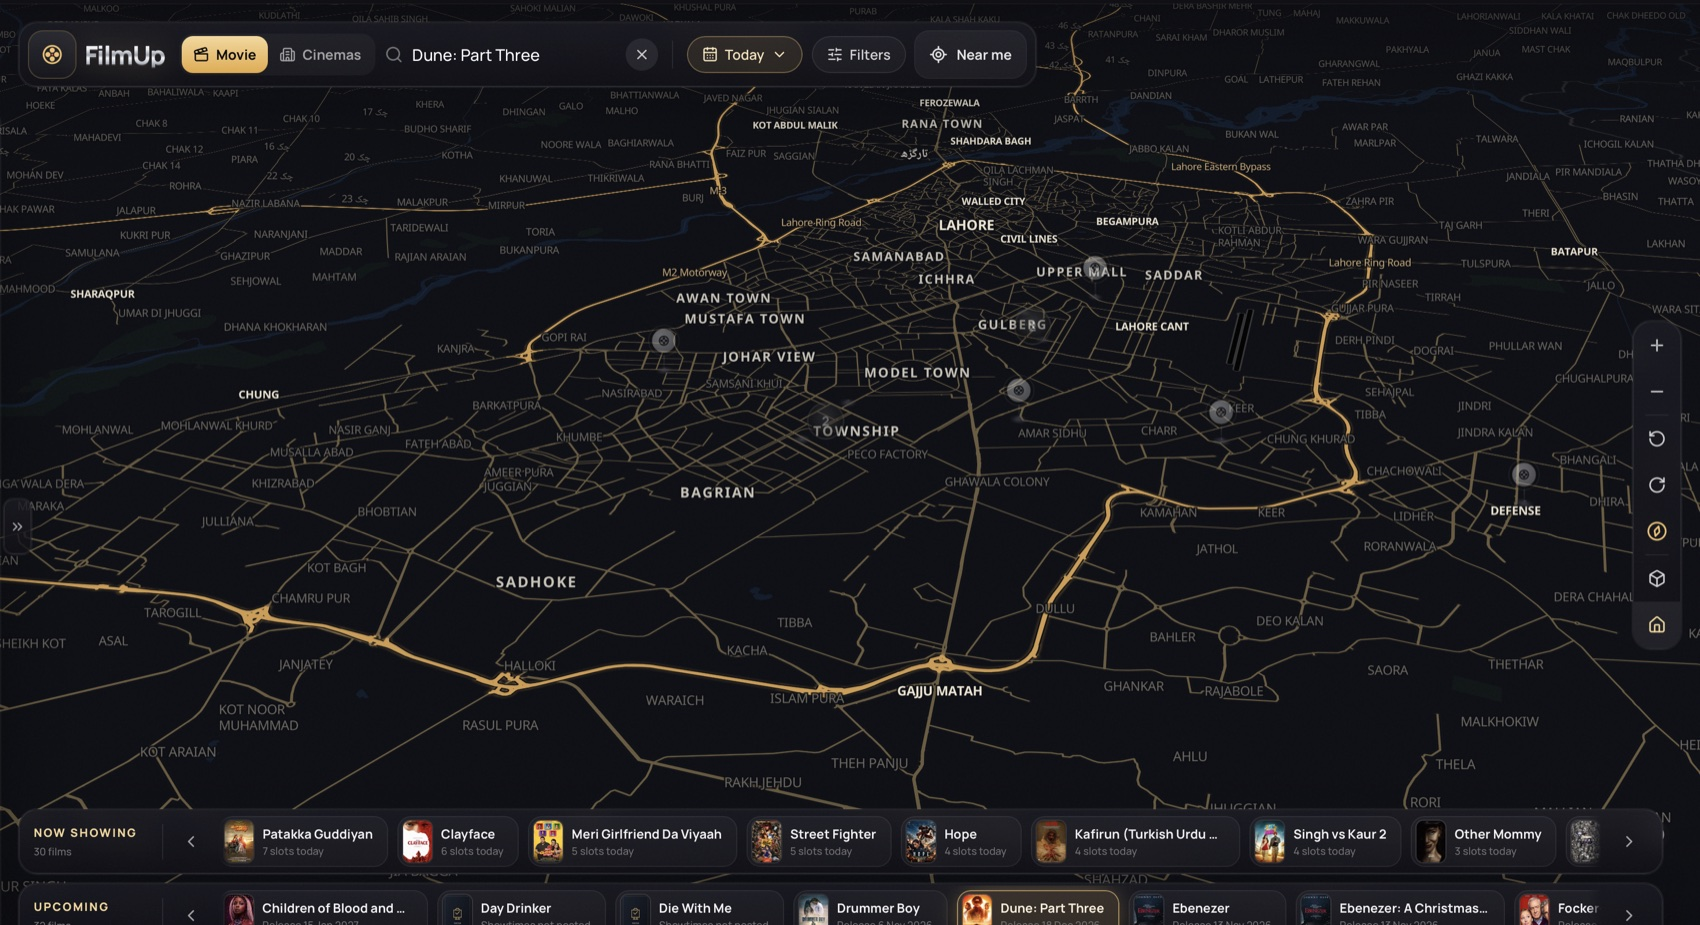
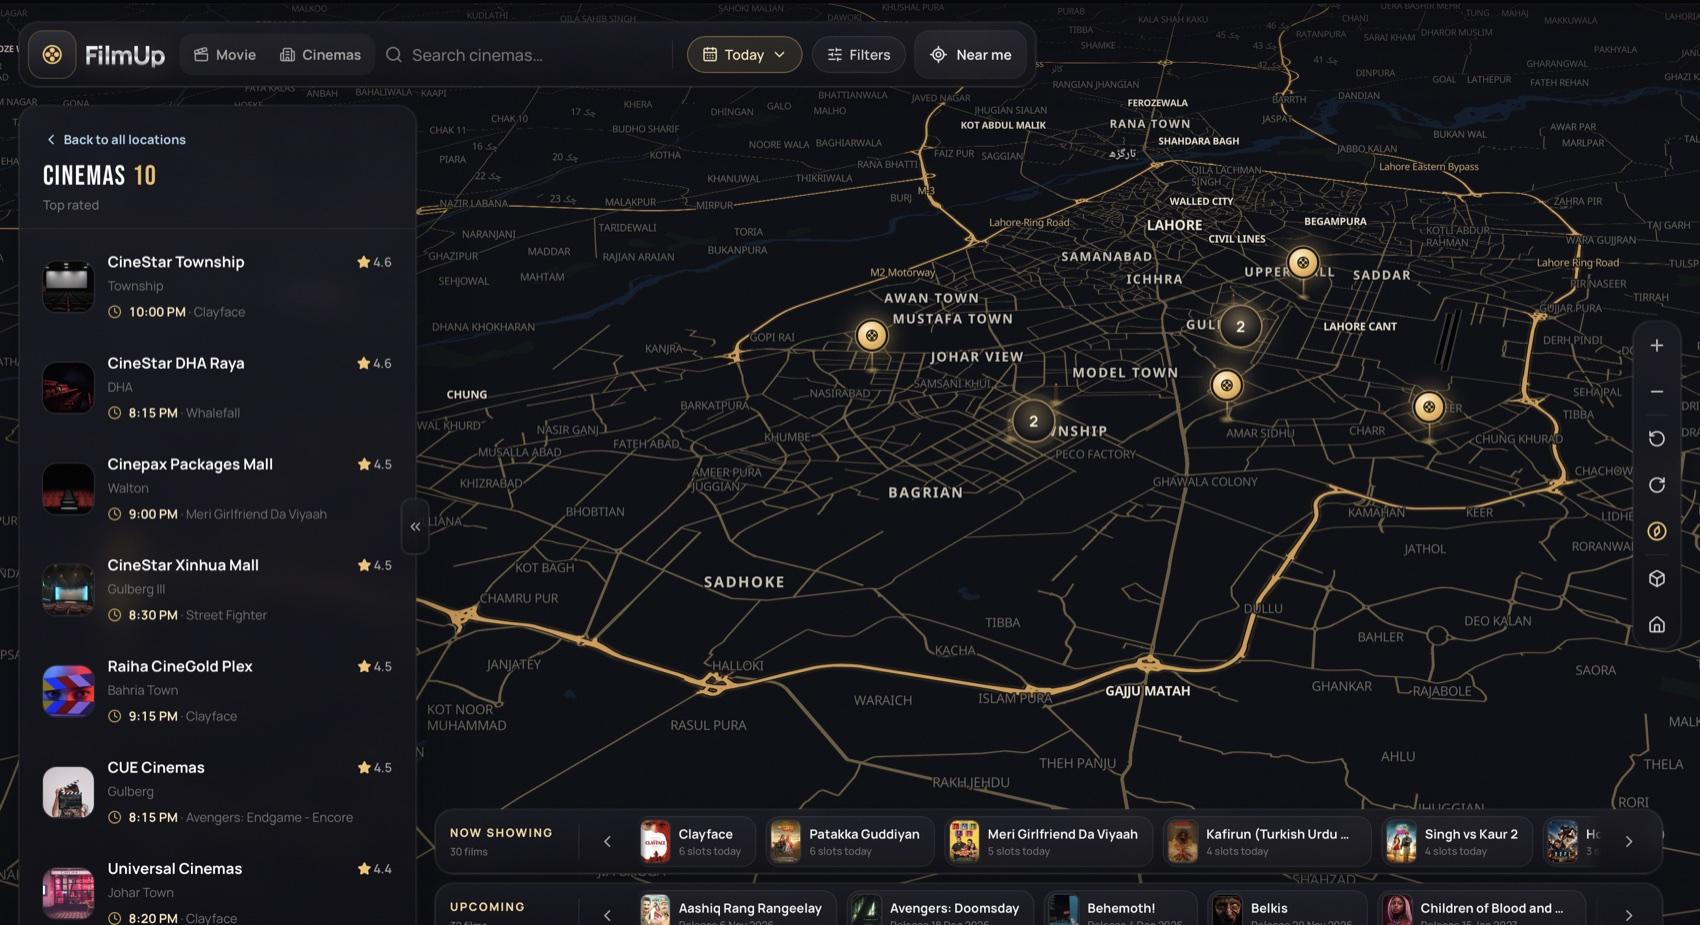
Clarify FilmUp objective and refine README product gallery

diff --git a/README.md b/README.md
@@ -4,15 +4,23 @@
 
 [![CI](https://github.com/damnalee/filmup/actions/workflows/ci.yml/badge.svg?branch=main)](https://github.com/damnalee/filmup/actions/workflows/ci.yml)
 
-FilmUp is a Lahore-focused cinema discovery experience. It brings cinema locations, movie listings and upcoming showtimes into one interactive map, with email alerts for advance-booking openings on selected upcoming films.
+FilmUp is a Lahore-focused cinema discovery experience. It brings supported cinema locations, movie listings and available showtimes into one searchable map and directory, with email alerts for advance-booking openings on selected upcoming films.
 
 <p align="center">
-  <img src="docs/screenshots/filmup-map.jpg" alt="FilmUp interactive 3D map of Lahore with cinema locations and movie ribbons" width="100%" />
+  <img src="docs/screenshots/filmup-map.jpg" alt="FilmUp Lahore map showing cinema markers, a live list of supported cinemas and movie showtime ribbons" width="100%" />
 </p>
 
 <p align="center">
   <strong>React · TypeScript · Vite · FastAPI · Supabase · MapLibre</strong>
 </p>
+
+## The problem FilmUp solves
+
+Finding a movie time in Lahore can mean opening several cinema websites one by one, checking different booking apps, and comparing listings across separate pages. Those booking apps do not provide one dependable, concurrent view of the available slots across all the cinemas a moviegoer may want to compare. That makes a simple question — *which cinema has the best showtime for this movie?* — unnecessarily time-consuming.
+
+**FilmUp's main objective is to bring the supported Lahore cinemas and their available movie sessions together in one place.** Instead of switching between separate websites and apps, people can explore cinema locations on a shared map, browse one consolidated cinema and movie list, and compare the showtimes that FilmUp has collected from supported sources. Upcoming titles can also be followed with advance-booking email alerts.
+
+FilmUp is a discovery layer, not a ticket-booking marketplace: when a cinema publishes a booking link, users continue to that cinema or provider to complete the purchase. Coverage depends on the cinemas and sources currently supported by FilmUp; it does not claim to list every venue or every slot in Lahore.
 
 ## What FilmUp does
 
@@ -26,32 +34,37 @@ FilmUp is a discovery and notification product. It does not sell tickets or guar
 
 ## Product screens
 
-The screenshots below are captures of the real FilmUp interface running locally. They show the current product flow rather than mockups.
+These are captures of the actual FilmUp interface running locally, not design mockups.
 
-<table>
-  <tr>
-    <td width="50%" valign="top">
-      <img src="docs/screenshots/filmup-cinemas-list.jpg" alt="FilmUp cinema directory showing Lahore venues and their next listed showtimes" width="100%" />
-      <p><strong>Cinema directory</strong><br />Browse supported Lahore cinemas, compare their areas and ratings, and see the next listed session.</p>
-    </td>
-    <td width="50%" valign="top">
-      <img src="docs/screenshots/filmup-cue-showtimes.jpg" alt="CUE Cinemas detail panel with currently listed movies and showtimes" width="100%" />
-      <p><strong>CUE Cinemas and showtimes</strong><br />Open a venue on the map to review its movie listings and available showtime information.</p>
-    </td>
-  </tr>
-  <tr>
-    <td width="50%" valign="top">
-      <img src="docs/screenshots/filmup-upcoming-dune.jpg" alt="Dune Part Three movie details marked coming soon in FilmUp" width="100%" />
-      <p><strong>Upcoming movies</strong><br />View a coming-soon title such as <em>Dune: Part Three</em>, even before cinemas publish sessions.</p>
-    </td>
-    <td width="50%" valign="top">
-      <img src="docs/screenshots/filmup-advance-booking-alert.jpg" alt="FilmUp advance-booking alert form with email and cinema choices" width="100%" />
-      <p><strong>Advance-booking alerts</strong><br />Choose an email address and the cinemas to watch. FilmUp sends a confirmation email before alerts are activated.</p>
-    </td>
-  </tr>
-</table>
+### Lahore map with cinema locations
 
-The map and product screens were captured on 30 October 2026. Movie catalogues, release information and showtimes are live data and can change after these screenshots are taken.
+The main view combines cinema markers on the map with a visible directory of supported venues and the movie ribbons along the bottom. It is designed to make the cinema options visible together instead of making people inspect each venue separately.
+
+<p align="center">
+  <img src="docs/screenshots/filmup-map.jpg" alt="FilmUp map with visible Lahore cinema markers, the cinema directory and movie ribbons" width="100%" />
+</p>
+
+### Browse the cinema directory
+
+<p align="center">
+  <img src="docs/screenshots/filmup-cinemas-list.jpg" alt="FilmUp directory of Lahore cinemas with areas, ratings and next listed sessions" width="100%" />
+</p>
+
+### CUE Cinemas showtime details
+
+<p align="center">
+  <img src="docs/screenshots/filmup-cue-showtimes.jpg" alt="CUE Cinemas detail panel in FilmUp showing movie listings and showtime information" width="100%" />
+</p>
+
+### Dune: Part Three — coming soon and booking alerts
+
+This single view shows the upcoming movie details and its advance-booking alert form together. A user can enter an email address, select the cinemas to watch, and confirm the subscription. FilmUp then checks for matching future sessions and emails the user when booking opens at a selected cinema.
+
+<p align="center">
+  <img src="docs/screenshots/filmup-advance-booking-alert.jpg" alt="Dune Part Three coming-soon movie panel with the FilmUp email and cinema selection form for advance-booking alerts" width="100%" />
+</p>
+
+The screenshots were captured on 30 October 2026. Movie catalogues, release information and showtimes are live data and can change after capture.
 
 ## Architecture
 
